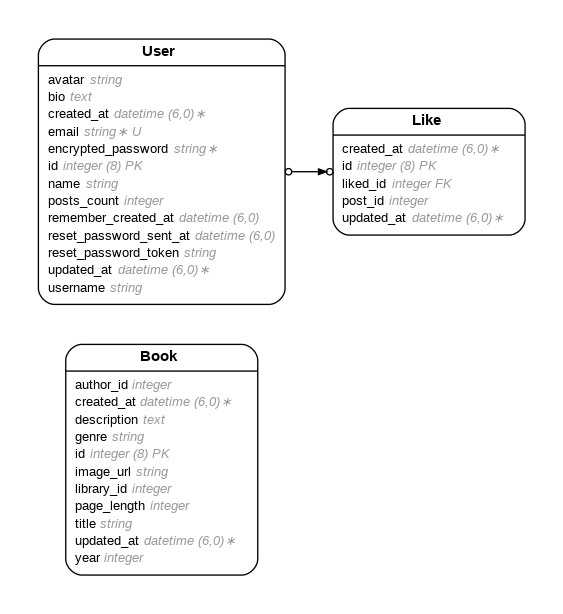
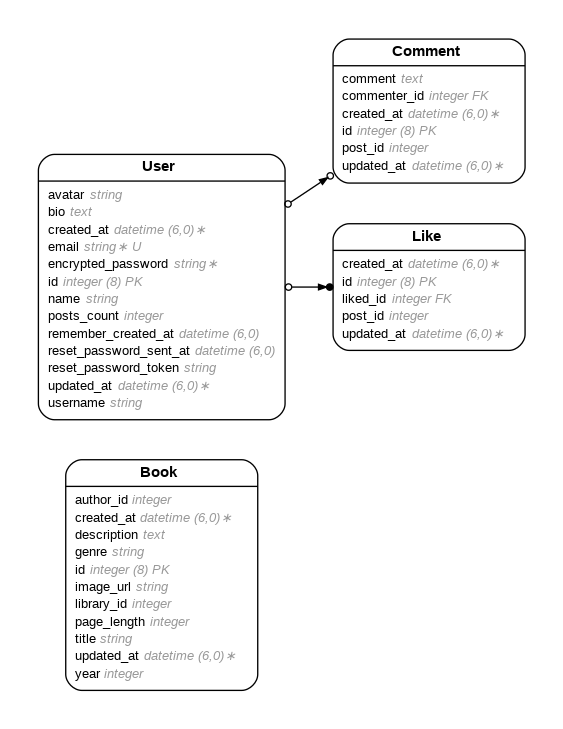
Created comments.rb

Changed region(s): [[0.0604, 0.0309, 0.9361, 0.9593]]

diff --git a/app/controllers/comments_controller.rb b/app/controllers/comments_controller.rb
@@ -1,0 +1,58 @@
+class CommentsController < ApplicationController
+  def index
+    matching_comments = Comment.all
+
+    @list_of_comments = matching_comments.order({ :created_at => :desc })
+
+    render({ :template => "comments/index" })
+  end
+
+  def show
+    the_id = params.fetch("path_id")
+
+    matching_comments = Comment.where({ :id => the_id })
+
+    @the_comment = matching_comments.at(0)
+
+    render({ :template => "comments/show" })
+  end
+
+  def create
+    the_comment = Comment.new
+    the_comment.post_id = params.fetch("query_post_id")
+    the_comment.commenter_id = params.fetch("query_commenter_id")
+    the_comment.comment = params.fetch("query_comment")
+
+    if the_comment.valid?
+      the_comment.save
+      redirect_to("/comments", { :notice => "Comment created successfully." })
+    else
+      redirect_to("/comments", { :alert => the_comment.errors.full_messages.to_sentence })
+    end
+  end
+
+  def update
+    the_id = params.fetch("path_id")
+    the_comment = Comment.where({ :id => the_id }).at(0)
+
+    the_comment.post_id = params.fetch("query_post_id")
+    the_comment.commenter_id = params.fetch("query_commenter_id")
+    the_comment.comment = params.fetch("query_comment")
+
+    if the_comment.valid?
+      the_comment.save
+      redirect_to("/comments/#{the_comment.id}", { :notice => "Comment updated successfully."} )
+    else
+      redirect_to("/comments/#{the_comment.id}", { :alert => the_comment.errors.full_messages.to_sentence })
+    end
+  end
+
+  def destroy
+    the_id = params.fetch("path_id")
+    the_comment = Comment.where({ :id => the_id }).at(0)
+
+    the_comment.destroy
+
+    redirect_to("/comments", { :notice => "Comment deleted successfully."} )
+  end
+end

diff --git a/db/schema.rb b/db/schema.rb
@@ -10,7 +10,7 @@
 #
 # It's strongly recommended that you check this file into your version control system.
 
-ActiveRecord::Schema[7.1].define(version: 2025_05_12_202740) do
+ActiveRecord::Schema[7.1].define(version: 2025_05_12_202845) do
   # These are extensions that must be enabled in order to support this database
   enable_extension "plpgsql"
 
@@ -23,6 +23,14 @@ ActiveRecord::Schema[7.1].define(version: 2025_05_12_202740) do
     t.integer "year"
     t.integer "library_id"
     t.string "genre"
+    t.datetime "created_at", null: false
+    t.datetime "updated_at", null: false
+  end
+
+  create_table "comments", force: :cascade do |t|
+    t.integer "post_id"
+    t.integer "commenter_id"
+    t.text "comment"
     t.datetime "created_at", null: false
     t.datetime "updated_at", null: false
   end

diff --git a/config/routes.rb b/config/routes.rb
@@ -1,4 +1,23 @@
 Rails.application.routes.draw do
+  # Routes for the Comment resource:
+
+  # CREATE
+  post("/insert_comment", { :controller => "comments", :action => "create" })
+          
+  # READ
+  get("/comments", { :controller => "comments", :action => "index" })
+  
+  get("/comments/:path_id", { :controller => "comments", :action => "show" })
+  
+  # UPDATE
+  
+  post("/modify_comment/:path_id", { :controller => "comments", :action => "update" })
+  
+  # DELETE
+  get("/delete_comment/:path_id", { :controller => "comments", :action => "destroy" })
+
+  #------------------------------
+
   # Routes for the Like resource:
 
   # CREATE

diff --git a/app/models/comment.rb b/app/models/comment.rb
@@ -1,0 +1,13 @@
+# == Schema Information
+#
+# Table name: comments
+#
+#  id           :bigint           not null, primary key
+#  comment      :text
+#  created_at   :datetime         not null
+#  updated_at   :datetime         not null
+#  commenter_id :integer
+#  post_id      :integer
+#
+class Comment < ApplicationRecord
+end

diff --git a/db/migrate/20250512202845_create_comments.rb b/db/migrate/20250512202845_create_comments.rb
@@ -1,0 +1,11 @@
+class CreateComments < ActiveRecord::Migration[7.1]
+  def change
+    create_table :comments do |t|
+      t.integer :post_id
+      t.integer :commenter_id
+      t.text :comment
+
+      t.timestamps
+    end
+  end
+end
